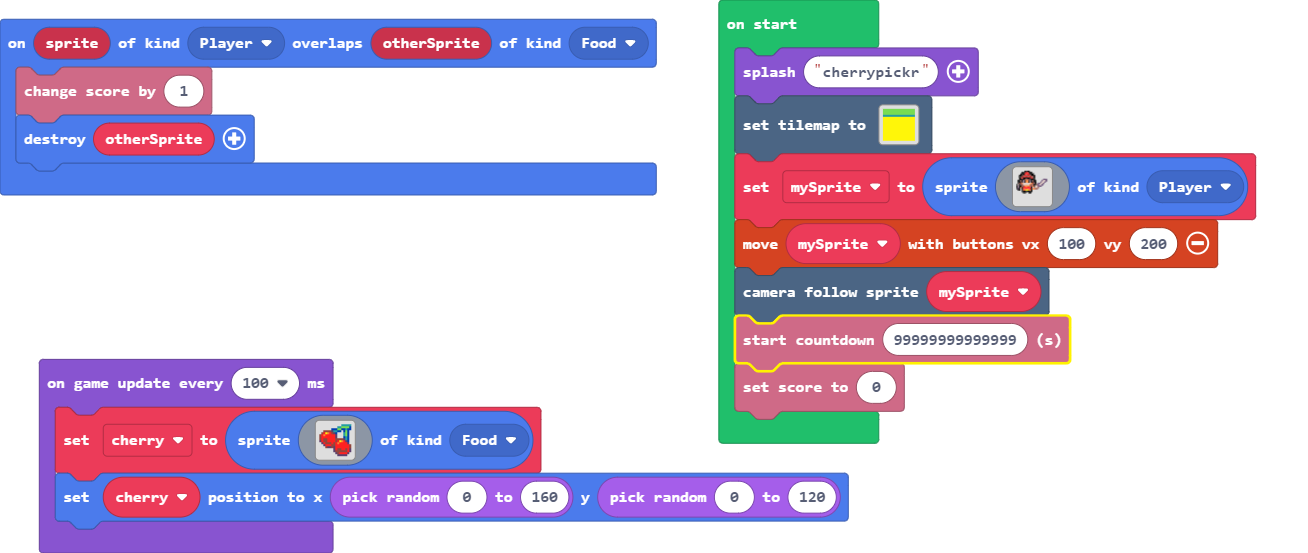
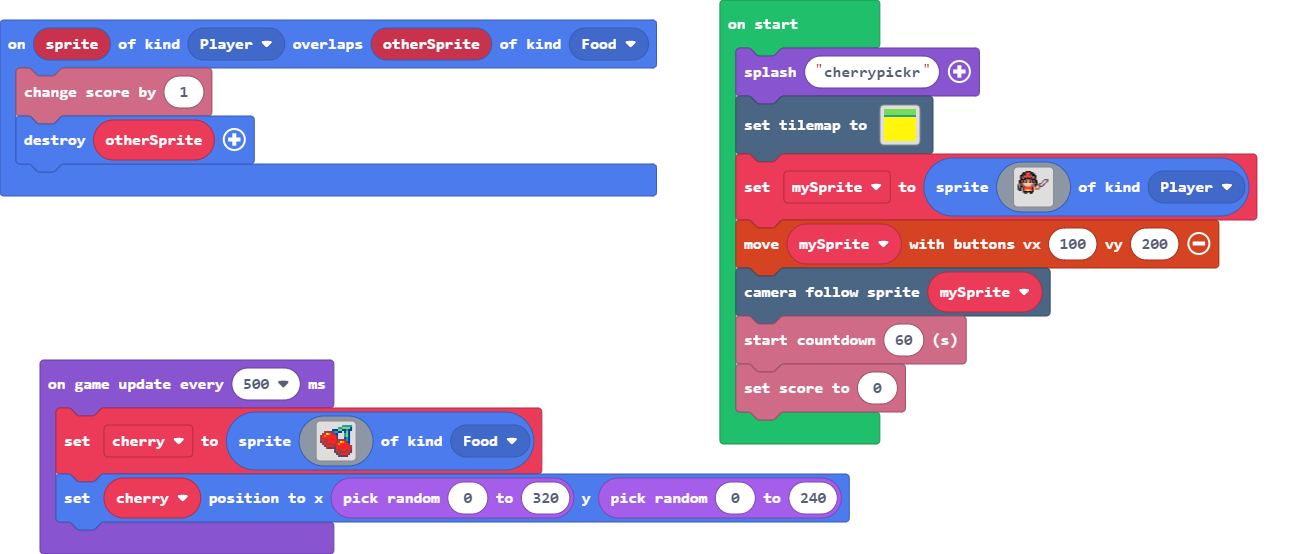
Update pxt.json, main.blocks, main.ts

diff --git a/main.ts b/main.ts
@@ -33,9 +33,9 @@ let mySprite = sprites.create(img`
     `, SpriteKind.Player)
 controller.moveSprite(mySprite, 100, 200)
 scene.cameraFollowSprite(mySprite)
-info.startCountdown(99999999999999)
+info.startCountdown(60)
 info.setScore(0)
-game.onUpdateInterval(100, function () {
+game.onUpdateInterval(500, function () {
     cherry = sprites.create(img`
         . . . . . . . . . . . 6 6 6 6 6 
         . . . . . . . . . 6 6 7 7 7 7 8 
@@ -54,5 +54,5 @@ game.onUpdateInterval(100, function () {
         . . . . . . . . c e 2 2 2 2 c . 
         . . . . . . . . . c c c c c . . 
         `, SpriteKind.Food)
-    cherry.setPosition(randint(0, 160), randint(0, 120))
+    cherry.setPosition(randint(0, 320), randint(0, 240))
 })
